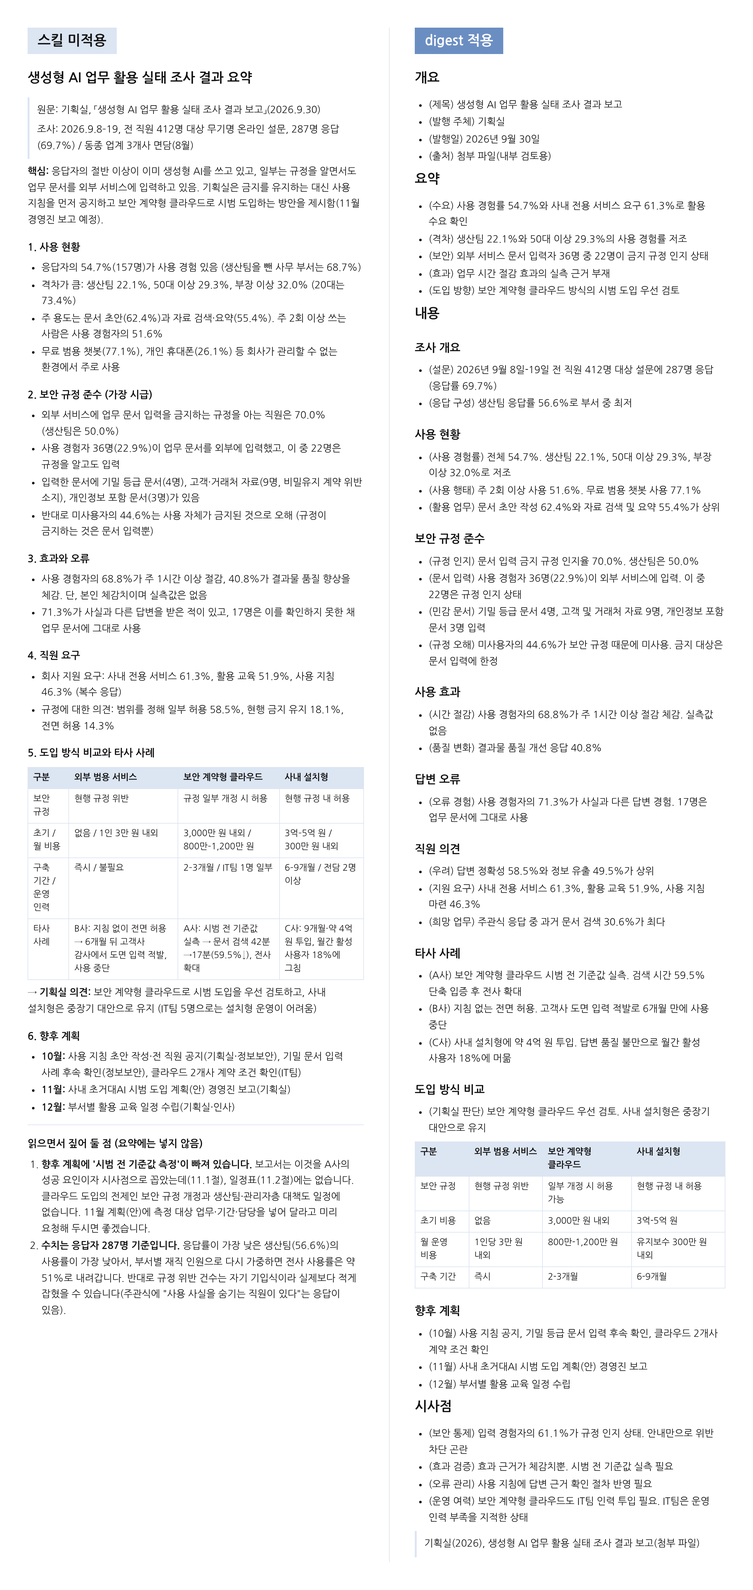
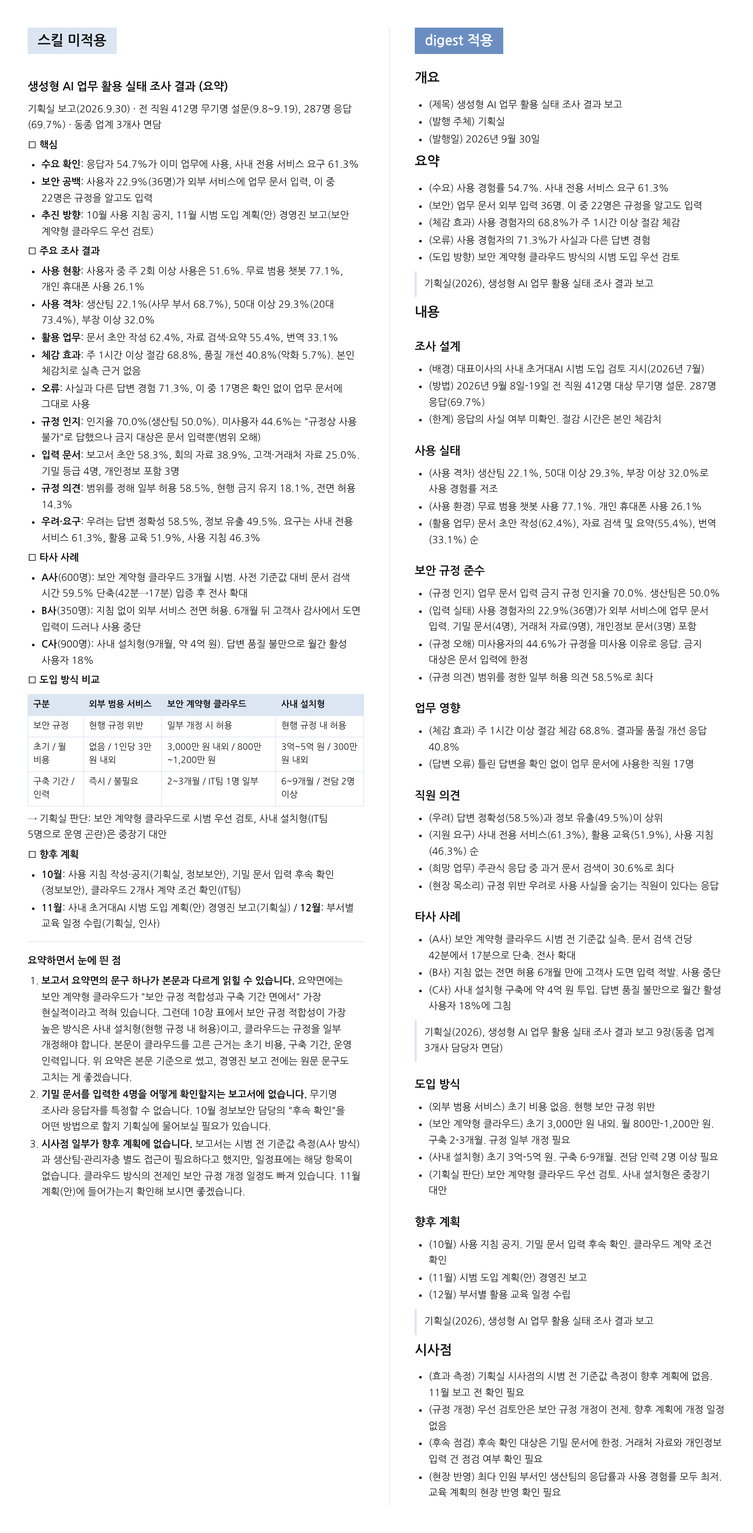
Replace the digest sample pair with a rerun on the published PDF
Both runs were repeated once with the same one-page request, this time
on the published 16-page PDF itself, so the sample's input is now
byte-identical to what the runs read. The new pair replaces the old one
as a whole; baseline and skill outputs are never mixed across runs.

- The new digest briefing's implications point out gaps in the report:
  the baseline measurement and the rule revision are missing from the
  schedule, the follow-up covers only confidential documents, and the
  Production team needs reaching.
- before.md drops a note on how the reply was fitted and checked and an
  offer of more work. Its remark that the report's summary page and its
  comparison table disagree on rule fit stays; the PDF reads that way.
- English files are translations of the Korean runs. The PDFs and
  prompts are unchanged.

Claude-Session: https://claude.ai/code/session_013Pa4KQnbYgEBc9eWftjgtJ

Changed region(s): [[0.0312, 0.0, 0.5, 0.8406], [0.5312, 0.0, 0.9688, 0.9963]]

diff --git a/skills/digest/demo/en/before.md b/skills/digest/demo/en/before.md
@@ -1,50 +1,46 @@
-# Summary: Survey Results on Generative AI Use at Work
+## Survey Results on Generative AI Use at Work (Summary)
 
-> Source: Planning Office, "Survey Results on Generative AI Use at Work" (September 30, 2026)
->
-> Survey: September 8-19, 2026, anonymous online survey of all 412 staff, 287 responses (69.7%) / interviews with 3 companies in the same industry (August)
+Planning Office report (September 30, 2026) · anonymous survey of all 412 staff (September 8-19), 287 responses (69.7%) · interviews with 3 companies in the same industry
 
-**Bottom line:** More than half of respondents already use generative AI, and some enter work documents into external services even though they know the rule. Instead of keeping the ban as is, the Planning Office proposes announcing usage guidelines first and piloting a security-contract cloud service (report to executives due in November).
+**□ Key points**
+- **Demand confirmed**: 54.7% of respondents already use it at work, and 61.3% ask for an in-house service
+- **Security gap**: 22.9% of users (36 people) entered work documents into external services, and 22 of them knew the rule
+- **Direction**: Usage guidelines announced in October, pilot plan (draft) reported to executives in November (security-contract cloud considered first)
 
-### 1. Current use
-- 54.7% of respondents (157 people) have used it (68.7% in office departments, excluding the Production team)
-- Wide gaps: Production team 22.1%, 50 and over 29.3%, general managers and above 32.0% (73.4% for people in their 20s)
-- Mainly used for drafting documents (62.4%) and searching and summarizing material (55.4%). 51.6% of users use it twice a week or more
-- Used mostly in settings the company cannot manage, such as free general-purpose chatbots (77.1%) and personal phones (26.1%)
+**□ Main findings**
+- **Current use**: 51.6% of users use it twice a week or more. Free general-purpose chatbots 77.1%, personal phones 26.1%
+- **Gaps in use**: Production team 22.1% (office departments 68.7%), 50 and over 29.3% (20s 73.4%), general managers and above 32.0%
+- **Tasks**: Drafting documents 62.4%, searching and summarizing material 55.4%, translation 33.1%
+- **Perceived benefits**: 68.8% save 1 hour or more a week, 40.8% see better quality (5.7% worse). Self-estimates with no measured evidence
+- **Errors**: 71.3% have received factually wrong answers, and 17 of them used such answers in work documents without checking
+- **Awareness of the rule**: 70.0% aware (Production team 50.0%). 44.6% of non-users answered "not allowed under the rules," but the ban covers only entering documents (a misreading of the scope)
+- **Documents entered**: Report drafts 58.3%, meeting materials 38.9%, customer and supplier material 25.0%. Confidential documents 4 people, documents with personal information 3 people
+- **Views on the rules**: Allow some use within a defined scope 58.5%, keep the current ban 18.1%, allow full use 14.3%
+- **Concerns and needs**: Top concerns are answer accuracy 58.5% and information leaks 49.5%. Top needs are an in-house service 61.3%, training 51.9% and usage guidelines 46.3%
 
-### 2. Compliance with the security rules (most urgent)
-- 70.0% of staff know the rule against entering work documents into external services (50.0% in the Production team)
-- 36 users (22.9%) have entered work documents into external services, and 22 of them knew the rule
-- The documents entered include confidential documents (4 people), customer and supplier material (9 people, a possible breach of confidentiality agreements) and documents with personal information (3 people)
-- At the other extreme, 44.6% of non-users wrongly believe use itself is banned (the rule bans only entering documents)
+**□ Cases at other companies**
+- **Company A** (600 staff): 3-month pilot on a security-contract cloud. Proved a 59.5% cut in document search time against a prior baseline (42 min → 17 min), then rolled out company-wide
+- **Company B** (350 staff): Allowed full use of external services without guidelines. Stopped use after a customer audit 6 months later found drawings had been entered
+- **Company C** (900 staff): In-house deployment (9 months, about KRW 400 million). Monthly active users at 18% due to dissatisfaction with answer quality
 
-### 3. Benefits and errors
-- 68.8% of users feel they save 1 hour or more a week, and 40.8% feel the quality of their output improved. These are their own estimates, though, with no measured values
-- 71.3% have received factually wrong answers, and 17 people used such answers in work documents without catching them
-
-### 4. What staff want
-- Support requested from the company: an in-house service 61.3%, training 51.9%, usage guidelines 46.3% (multiple answers)
-- Views on the rules: allow some use within a defined scope 58.5%, keep the current ban 18.1%, allow full use 14.3%
-
-### 5. Adoption options and cases at other companies
+**□ Comparison of adoption options**
 
 | Item | External general-purpose service | Security-contract cloud | In-house deployment |
-|---|---|---|---|
-| Security rules | Breaches the current rules | Allowed with a partial rule change | Allowed under the current rules |
+|------------|--------------|----------------|--------------|
+| Security rules | Breaches the current rules | Allowed with a partial change | Allowed under the current rules |
 | Initial / monthly cost | None / about KRW 30,000 per person | About KRW 30 million / KRW 8-12 million | KRW 300-500 million / about KRW 3 million |
-| Setup time / operating staff | Immediate / none needed | 2-3 months / part of 1 IT team member's time | 6-9 months / 2 or more dedicated |
-| Other companies | Company B: full use allowed without guidelines → customer audit found drawings entered 6 months later, use stopped | Company A: baseline measured before the pilot → document search 42 min → 17 min (59.5%↓), company-wide rollout | Company C: 9 months and about KRW 400 million spent, monthly active users only 18% |
+| Setup time / staff | Immediate / none needed | 2-3 months / part of 1 IT team member's time | 6-9 months / 2 or more dedicated |
 
-→ **Planning Office view:** Consider a security-contract cloud first for the pilot, and keep in-house deployment as a medium to long-term option (the 5-person IT team would struggle to run an in-house deployment)
+→ Planning Office view: Consider a security-contract cloud first for the pilot, with in-house deployment (too hard to run with the 5-person IT team) as a medium to long-term option
 
-### 6. Next steps
-- **October:** Draft usage guidelines and announce them to all staff (Planning Office, Information Security), follow up on cases of confidential documents being entered (Information Security), check contract terms of 2 cloud providers (IT team)
-- **November:** Report the in-house hyperscale AI pilot plan (draft) to executives (Planning Office)
-- **December:** Set training schedules by department (Planning Office, HR)
+**□ Next steps**
+- **October**: Write and announce usage guidelines (Planning Office, Information Security), follow up on confidential document input (Information Security), check contract terms of 2 cloud providers (IT team)
+- **November**: Report the in-house hyperscale AI pilot plan (draft) to executives (Planning Office) / **December**: Set training schedules by department (Planning Office, HR)
 
 ---
 
-### Points to note as you read (not included in the summary)
+### Points noticed while summarizing
 
-1. **"Measuring a baseline before the pilot" is missing from the next steps.** The report names it as Company A's success factor and as an implication (section 11.1), but it is not in the schedule (section 11.2). Revising the security rules, which the cloud option depends on, and measures for the Production team and managers are not in the schedule either. It would be worth asking in advance that the November plan (draft) include the tasks to measure, the period and the owner.
-2. **The figures are based on the 287 respondents.** The Production team, with the lowest response rate (56.6%), also has the lowest use rate, so reweighting by department headcount lowers the company-wide use rate to about 51%. On the other hand, the number of rule breaches is self-reported and may be understated (one open-ended answer says "some staff hide their use").
+1. **One phrase on the report's summary page can read differently from the body.** The summary page says the security-contract cloud is the most realistic option "for fit with the security rules and setup time." But in the table in section 10, the option with the best fit with the security rules is in-house deployment (allowed under the current rules), while the cloud option needs a partial rule change. The body's reasons for choosing the cloud are initial cost, setup time and operating staff. The summary above follows the body, and the original wording is worth fixing before the executive report.
+2. **The report does not say how the 4 people who entered confidential documents will be identified.** The survey is anonymous, so respondents cannot be identified. It is worth asking the Planning Office how Information Security will carry out the October "follow-up."
+3. **Some implications are missing from the next steps.** The report says a baseline must be measured before the pilot (as Company A did) and that the Production team and managers need a separate approach, but the schedule has no such items. The schedule for revising the security rules, which the cloud option depends on, is also missing. It would be worth checking that these go into the November plan (draft).

diff --git a/skills/digest/demo/ko/before.md b/skills/digest/demo/ko/before.md
@@ -1,50 +1,46 @@
-# 생성형 AI 업무 활용 실태 조사 결과 요약
+## 생성형 AI 업무 활용 실태 조사 결과 (요약)
 
-> 원문: 기획실, 「생성형 AI 업무 활용 실태 조사 결과 보고」(2026.9.30)
->
-> 조사: 2026.9.8–19, 전 직원 412명 대상 무기명 온라인 설문, 287명 응답(69.7%) / 동종 업계 3개사 면담(8월)
+기획실 보고(2026.9.30) · 전 직원 412명 무기명 설문(9.8~9.19), 287명 응답(69.7%) · 동종 업계 3개사 면담
 
-**핵심:** 응답자의 절반 이상이 이미 생성형 AI를 쓰고 있고, 일부는 규정을 알면서도 업무 문서를 외부 서비스에 입력하고 있음. 기획실은 금지를 유지하는 대신 사용 지침을 먼저 공지하고 보안 계약형 클라우드로 시범 도입하는 방안을 제시함(11월 경영진 보고 예정).
+**□ 핵심**
+- **수요 확인**: 응답자 54.7%가 이미 업무에 사용, 사내 전용 서비스 요구 61.3%
+- **보안 공백**: 사용자 22.9%(36명)가 외부 서비스에 업무 문서 입력, 이 중 22명은 규정을 알고도 입력
+- **추진 방향**: 10월 사용 지침 공지, 11월 시범 도입 계획(안) 경영진 보고(보안 계약형 클라우드 우선 검토)
 
-### 1. 사용 현황
-- 응답자의 54.7%(157명)가 사용 경험 있음 (생산팀을 뺀 사무 부서는 68.7%)
-- 격차가 큼: 생산팀 22.1%, 50대 이상 29.3%, 부장 이상 32.0% (20대는 73.4%)
-- 주 용도는 문서 초안(62.4%)과 자료 검색·요약(55.4%). 주 2회 이상 쓰는 사람은 사용 경험자의 51.6%
-- 무료 범용 챗봇(77.1%), 개인 휴대폰(26.1%) 등 회사가 관리할 수 없는 환경에서 주로 사용
+**□ 주요 조사 결과**
+- **사용 현황**: 사용자 중 주 2회 이상 사용은 51.6%. 무료 범용 챗봇 77.1%, 개인 휴대폰 사용 26.1%
+- **사용 격차**: 생산팀 22.1%(사무 부서 68.7%), 50대 이상 29.3%(20대 73.4%), 부장 이상 32.0%
+- **활용 업무**: 문서 초안 작성 62.4%, 자료 검색·요약 55.4%, 번역 33.1%
+- **체감 효과**: 주 1시간 이상 절감 68.8%, 품질 개선 40.8%(악화 5.7%). 본인 체감치로 실측 근거 없음
+- **오류**: 사실과 다른 답변 경험 71.3%, 이 중 17명은 확인 없이 업무 문서에 그대로 사용
+- **규정 인지**: 인지율 70.0%(생산팀 50.0%). 미사용자 44.6%는 "규정상 사용 불가"로 답했으나 금지 대상은 문서 입력뿐(범위 오해)
+- **입력 문서**: 보고서 초안 58.3%, 회의 자료 38.9%, 고객·거래처 자료 25.0%. 기밀 등급 4명, 개인정보 포함 3명
+- **규정 의견**: 범위를 정해 일부 허용 58.5%, 현행 금지 유지 18.1%, 전면 허용 14.3%
+- **우려·요구**: 우려는 답변 정확성 58.5%, 정보 유출 49.5%. 요구는 사내 전용 서비스 61.3%, 활용 교육 51.9%, 사용 지침 46.3%
 
-### 2. 보안 규정 준수 (가장 시급)
-- 외부 서비스에 업무 문서 입력을 금지하는 규정을 아는 직원은 70.0% (생산팀은 50.0%)
-- 사용 경험자 36명(22.9%)이 업무 문서를 외부에 입력했고, 이 중 22명은 규정을 알고도 입력
-- 입력한 문서에 기밀 등급 문서(4명), 고객·거래처 자료(9명, 비밀유지 계약 위반 소지), 개인정보 포함 문서(3명)가 있음
-- 반대로 미사용자의 44.6%는 사용 자체가 금지된 것으로 오해 (규정이 금지하는 것은 문서 입력뿐)
+**□ 타사 사례**
+- **A사**(600명): 보안 계약형 클라우드 3개월 시범. 사전 기준값 대비 문서 검색 시간 59.5% 단축(42분→17분) 입증 후 전사 확대
+- **B사**(350명): 지침 없이 외부 서비스 전면 허용. 6개월 뒤 고객사 감사에서 도면 입력이 드러나 사용 중단
+- **C사**(900명): 사내 설치형(9개월, 약 4억 원). 답변 품질 불만으로 월간 활성 사용자 18%
 
-### 3. 효과와 오류
-- 사용 경험자의 68.8%가 주 1시간 이상 절감, 40.8%가 결과물 품질 향상을 체감. 단, 본인 체감치이며 실측값은 없음
-- 71.3%가 사실과 다른 답변을 받은 적이 있고, 17명은 이를 확인하지 못한 채 업무 문서에 그대로 사용
-
-### 4. 직원 요구
-- 회사 지원 요구: 사내 전용 서비스 61.3%, 활용 교육 51.9%, 사용 지침 46.3% (복수 응답)
-- 규정에 대한 의견: 범위를 정해 일부 허용 58.5%, 현행 금지 유지 18.1%, 전면 허용 14.3%
-
-### 5. 도입 방식 비교와 타사 사례
+**□ 도입 방식 비교**
 
 | 구분 | 외부 범용 서비스 | 보안 계약형 클라우드 | 사내 설치형 |
-|---|---|---|---|
-| 보안 규정 | 현행 규정 위반 | 규정 일부 개정 시 허용 | 현행 규정 내 허용 |
-| 초기 / 월 비용 | 없음 / 1인 3만 원 내외 | 3,000만 원 내외 / 800만–1,200만 원 | 3억–5억 원 / 300만 원 내외 |
-| 구축 기간 / 운영 인력 | 즉시 / 불필요 | 2–3개월 / IT팀 1명 일부 | 6–9개월 / 전담 2명 이상 |
-| 타사 사례 | B사: 지침 없이 전면 허용 → 6개월 뒤 고객사 감사에서 도면 입력 적발, 사용 중단 | A사: 시범 전 기준값 실측 → 문서 검색 42분→17분(59.5%↓), 전사 확대 | C사: 9개월·약 4억 원 투입, 월간 활성 사용자 18%에 그침 |
+|------------|--------------|----------------|--------------|
+| 보안 규정 | 현행 규정 위반 | 일부 개정 시 허용 | 현행 규정 내 허용 |
+| 초기 / 월 비용 | 없음 / 1인당 3만 원 내외 | 3,000만 원 내외 / 800만~1,200만 원 | 3억~5억 원 / 300만 원 내외 |
+| 구축 기간 / 인력 | 즉시 / 불필요 | 2~3개월 / IT팀 1명 일부 | 6~9개월 / 전담 2명 이상 |
 
-→ **기획실 의견:** 보안 계약형 클라우드로 시범 도입을 우선 검토하고, 사내 설치형은 중장기 대안으로 유지 (IT팀 5명으로는 설치형 운영이 어려움)
+→ 기획실 판단: 보안 계약형 클라우드로 시범 우선 검토, 사내 설치형(IT팀 5명으로 운영 곤란)은 중장기 대안
 
-### 6. 향후 계획
-- **10월:** 사용 지침 초안 작성·전 직원 공지(기획실·정보보안), 기밀 문서 입력 사례 후속 확인(정보보안), 클라우드 2개사 계약 조건 확인(IT팀)
-- **11월:** 사내 초거대AI 시범 도입 계획(안) 경영진 보고(기획실)
-- **12월:** 부서별 활용 교육 일정 수립(기획실·인사)
+**□ 향후 계획**
+- **10월**: 사용 지침 작성·공지(기획실, 정보보안), 기밀 문서 입력 후속 확인(정보보안), 클라우드 2개사 계약 조건 확인(IT팀)
+- **11월**: 사내 초거대AI 시범 도입 계획(안) 경영진 보고(기획실) / **12월**: 부서별 교육 일정 수립(기획실, 인사)
 
 ---
 
-### 읽으면서 짚어 둘 점 (요약에는 넣지 않음)
+### 요약하면서 눈에 띈 점
 
-1. **향후 계획에 '시범 전 기준값 측정'이 빠져 있습니다.** 보고서는 이것을 A사의 성공 요인이자 시사점으로 꼽았는데(11.1절), 일정표(11.2절)에는 없습니다. 클라우드 도입의 전제인 보안 규정 개정과 생산팀·관리자층 대책도 일정에 없습니다. 11월 계획(안)에 측정 대상 업무·기간·담당을 넣어 달라고 미리 요청해 두시면 좋겠습니다.
-2. **수치는 응답자 287명 기준입니다.** 응답률이 가장 낮은 생산팀(56.6%)의 사용률이 가장 낮아서, 부서별 재직 인원으로 다시 가중하면 전사 사용률은 약 51%로 내려갑니다. 반대로 규정 위반 건수는 자기 기입식이라 실제보다 적게 잡혔을 수 있습니다(주관식에 "사용 사실을 숨기는 직원이 있다"는 응답이 있음).
+1. **보고서 요약면의 문구 하나가 본문과 다르게 읽힐 수 있습니다.** 요약면에는 보안 계약형 클라우드가 "보안 규정 적합성과 구축 기간 면에서" 가장 현실적이라고 적혀 있습니다. 그런데 10장 표에서 보안 규정 적합성이 가장 높은 방식은 사내 설치형(현행 규정 내 허용)이고, 클라우드는 규정을 일부 개정해야 합니다. 본문이 클라우드를 고른 근거는 초기 비용, 구축 기간, 운영 인력입니다. 위 요약은 본문 기준으로 썼고, 경영진 보고 전에는 원문 문구도 고치는 게 좋겠습니다.
+2. **기밀 문서를 입력한 4명을 어떻게 확인할지는 보고서에 없습니다.** 무기명 조사라 응답자를 특정할 수 없습니다. 10월 정보보안 담당의 "후속 확인"을 어떤 방법으로 할지 기획실에 물어보실 필요가 있습니다.
+3. **시사점 일부가 향후 계획에 없습니다.** 보고서는 시범 전 기준값 측정(A사 방식)과 생산팀·관리자층 별도 접근이 필요하다고 했지만, 일정표에는 해당 항목이 없습니다. 클라우드 방식의 전제인 보안 규정 개정 일정도 빠져 있습니다. 11월 계획(안)에 들어가는지 확인해 보시면 좋겠습니다.

diff --git a/skills/digest/demo/en/after.md b/skills/digest/demo/en/after.md
@@ -2,67 +2,65 @@
 - (Title) Survey Results on Generative AI Use at Work
 - (Issued by) Planning Office
 - (Issue date) September 30, 2026
-- (Source) Attached file (for internal review)
 
 # Summary
-- (Demand) Demand for use confirmed by a use rate of 54.7% and 61.3% asking for an in-house service
-- (Gaps) Low use rates in the Production team at 22.1% and among those 50 and over at 29.3%
-- (Security) 22 of the 36 people who entered documents into external services knew the ban
-- (Benefits) No measured evidence for the time saved at work
+- (Demand) Use rate of 54.7%. 61.3% ask for an in-house service
+- (Security) 36 people entered work documents into external services. 22 of them knew the rule
+- (Perceived benefits) 68.8% of users feel they save 1 hour or more a week
+- (Errors) 71.3% of users have received factually wrong answers
 - (Adoption direction) A pilot on a security-contract cloud to be considered first
 
+> Planning Office (2026), Survey Results on Generative AI Use at Work
+
 # Content
-## Survey overview
-- (Survey) 287 of all 412 staff responded to the survey held September 8-19, 2026 (response rate 69.7%)
-- (Response mix) The Production team's response rate of 56.6% is the lowest of all departments
+## Survey design
+- (Background) CEO's instruction to review an in-house hyperscale AI pilot (July 2026)
+- (Method) Anonymous survey of all 412 staff, September 8-19, 2026. 287 responses (69.7%)
+- (Limits) Answers not verified. Time saved is a self-estimate
 
 ## Current use
-- (Use rate) 54.7% overall. Low in the Production team at 22.1%, among those 50 and over at 29.3% and among general managers and above at 32.0%
-- (Patterns of use) 51.6% use it twice a week or more. 77.1% use free general-purpose chatbots
-- (Tasks) Drafting documents at 62.4% and searching and summarizing material at 55.4% lead
+- (Gaps in use) Low use rates in the Production team at 22.1%, among those 50 and over at 29.3% and among general managers and above at 32.0%
+- (Settings of use) 77.1% use free general-purpose chatbots. 26.1% use personal phones
+- (Tasks) Drafting documents (62.4%), searching and summarizing material (55.4%) and translation (33.1%), in that order
 
 ## Compliance with the security rules
-- (Awareness of the rule) 70.0% know the ban on entering documents. 50.0% in the Production team
-- (Document input) 36 users (22.9%) entered documents into external services. 22 of them knew the rule
-- (Sensitive documents) Confidential documents entered by 4 people, customer and supplier material by 9 and documents with personal information by 3
-- (Misreading the rule) 44.6% of non-users do not use it because of the security rules. The ban covers only entering documents
+- (Awareness of the rule) 70.0% know the ban on entering work documents. 50.0% in the Production team
+- (Document input) 22.9% of users (36 people) entered work documents into external services. Including confidential documents (4 people), supplier material (9 people) and documents with personal information (3 people)
+- (Misreading the rule) 44.6% of non-users gave the rules as their reason for not using it. The ban covers only entering documents
+- (Views on the rules) Allowing some use within a defined scope is the most common view at 58.5%
 
-## Benefits of use
-- (Time saved) 68.8% of users feel they save 1 hour or more a week. No measured values
-- (Change in quality) 40.8% said output quality improved
-
-## Wrong answers
-- (Errors) 71.3% of users have received factually wrong answers. 17 used them in work documents as they were
+## Effects on work
+- (Perceived benefits) 68.8% feel they save 1 hour or more a week. 40.8% said output quality improved
+- (Wrong answers) 17 staff used wrong answers in work documents without checking
 
 ## Staff views
-- (Concerns) Answer accuracy at 58.5% and information leaks at 49.5% lead
-- (Support requested) An in-house service 61.3%, training 51.9%, usage guidelines 46.3%
+- (Concerns) Answer accuracy (58.5%) and information leaks (49.5%) lead
+- (Support requested) An in-house service (61.3%), training (51.9%) and usage guidelines (46.3%), in that order
 - (Tasks wanted) Searching past documents is the most common open-ended answer at 30.6%
+- (Voices from staff) One answer says some staff hide their use for fear of breaking the rules
 
 ## Cases at other companies
-- (Company A) Measured a baseline before its security-contract cloud pilot. Proved a 59.5% cut in search time, then rolled out company-wide
-- (Company B) Allowed full use without guidelines. Stopped use after 6 months when customer drawings were found to have been entered
-- (Company C) Spent about KRW 400 million on an in-house deployment. Monthly active users stayed at 18% due to dissatisfaction with answer quality
+- (Company A) Measured a baseline before its security-contract cloud pilot. Cut time per document search from 42 to 17 minutes. Rolled out company-wide
+- (Company B) Found customer drawings had been entered 6 months after allowing full use without guidelines. Stopped use
+- (Company C) Spent about KRW 400 million on an in-house deployment. Monthly active users only 18% due to dissatisfaction with answer quality
 
-## Comparison of adoption options
+> Planning Office (2026), Survey Results on Generative AI Use at Work, section 9 (interviews with staff at 3 companies in the same industry)
+
+## Adoption options
+- (External general-purpose service) No initial cost. Breaches the current security rules
+- (Security-contract cloud) About KRW 30 million up front. KRW 8-12 million a month. 2-3 months to set up. Needs a partial rule change
+- (In-house deployment) KRW 300-500 million up front. 6-9 months to set up. Needs 2 or more dedicated staff
 - (Planning Office view) Consider a security-contract cloud first. Keep in-house deployment as a medium to long-term option
 
-| Item | External general-purpose service | Security-contract cloud | In-house deployment |
-|---|---|---|---|
-| Security rules | Breaches the current rules | Can be allowed with a partial rule change | Allowed under the current rules |
-| Initial cost | None | About KRW 30 million | KRW 300-500 million |
-| Monthly operating cost | About KRW 30,000 per person | KRW 8-12 million | About KRW 3 million for maintenance |
-| Setup time | Immediate | 2-3 months | 6-9 months |
-
 ## Next steps
-- (October) Announce usage guidelines, follow up on confidential document input, check contract terms of 2 cloud providers
-- (November) Report the in-house hyperscale AI pilot plan (draft) to executives
+- (October) Announce usage guidelines. Follow up on confidential document input. Check cloud contract terms
+- (November) Report the pilot plan (draft) to executives
 - (December) Set training schedules by department
 
-# Implications
-- (Security controls) 61.1% of those who entered documents knew the rule. Guidance alone is unlikely to stop breaches
-- (Proving benefits) The only evidence of benefits is perception. A baseline needs to be measured before the pilot
-- (Managing errors) Usage guidelines need a step for checking the basis of answers
-- (Operating capacity) A security-contract cloud also needs IT team time. The IT team has already pointed to a shortage of operating staff
+> Planning Office (2026), Survey Results on Generative AI Use at Work
 
-> Planning Office (2026), Survey Results on Generative AI Use at Work (attached file)
+# Implications
+- (Measuring impact) The baseline measurement before the pilot, named in the Planning Office implications, is missing from the next steps. Needs checking before the November report
+- (Rule revision) The preferred option depends on revising the security rules. The next steps have no schedule for the revision
+- (Follow-up scope) The follow-up covers only confidential documents. Whether supplier material and personal information inputs will be checked needs confirming
+- (Reaching the shop floor) The Production team, the largest department, has the lowest response rate and the lowest use rate. Whether the training plan reflects the shop floor needs checking

diff --git a/skills/digest/demo/ko/after.md b/skills/digest/demo/ko/after.md
@@ -2,67 +2,65 @@
 - (제목) 생성형 AI 업무 활용 실태 조사 결과 보고
 - (발행 주체) 기획실
 - (발행일) 2026년 9월 30일
-- (출처) 첨부 파일(내부 검토용)
 
 # 요약
-- (수요) 사용 경험률 54.7%와 사내 전용 서비스 요구 61.3%로 활용 수요 확인
-- (격차) 생산팀 22.1%와 50대 이상 29.3%의 사용 경험률 저조
-- (보안) 외부 서비스 문서 입력자 36명 중 22명이 금지 규정 인지 상태
-- (효과) 업무 시간 절감 효과의 실측 근거 부재
+- (수요) 사용 경험률 54.7%. 사내 전용 서비스 요구 61.3%
+- (보안) 업무 문서 외부 입력 36명. 이 중 22명은 규정을 알고도 입력
+- (체감 효과) 사용 경험자의 68.8%가 주 1시간 이상 절감 체감
+- (오류) 사용 경험자의 71.3%가 사실과 다른 답변 경험
 - (도입 방향) 보안 계약형 클라우드 방식의 시범 도입 우선 검토
 
-# 내용
-## 조사 개요
-- (설문) 2026년 9월 8일-19일 전 직원 412명 대상 설문에 287명 응답(응답률 69.7%)
-- (응답 구성) 생산팀 응답률 56.6%로 부서 중 최저
+> 기획실(2026), 생성형 AI 업무 활용 실태 조사 결과 보고
 
-## 사용 현황
-- (사용 경험률) 전체 54.7%. 생산팀 22.1%, 50대 이상 29.3%, 부장 이상 32.0%로 저조
-- (사용 행태) 주 2회 이상 사용 51.6%. 무료 범용 챗봇 사용 77.1%
-- (활용 업무) 문서 초안 작성 62.4%와 자료 검색 및 요약 55.4%가 상위
+# 내용
+## 조사 설계
+- (배경) 대표이사의 사내 초거대AI 시범 도입 검토 지시(2026년 7월)
+- (방법) 2026년 9월 8일-19일 전 직원 412명 대상 무기명 설문. 287명 응답(69.7%)
+- (한계) 응답의 사실 여부 미확인. 절감 시간은 본인 체감치
+
+## 사용 실태
+- (사용 격차) 생산팀 22.1%, 50대 이상 29.3%, 부장 이상 32.0%로 사용 경험률 저조
+- (사용 환경) 무료 범용 챗봇 사용 77.1%. 개인 휴대폰 사용 26.1%
+- (활용 업무) 문서 초안 작성(62.4%), 자료 검색 및 요약(55.4%), 번역(33.1%) 순
 
 ## 보안 규정 준수
-- (규정 인지) 문서 입력 금지 규정 인지율 70.0%. 생산팀은 50.0%
-- (문서 입력) 사용 경험자 36명(22.9%)이 외부 서비스에 입력. 이 중 22명은 규정 인지 상태
-- (민감 문서) 기밀 등급 문서 4명, 고객 및 거래처 자료 9명, 개인정보 포함 문서 3명 입력
-- (규정 오해) 미사용자의 44.6%가 보안 규정 때문에 미사용. 금지 대상은 문서 입력에 한정
+- (규정 인지) 업무 문서 입력 금지 규정 인지율 70.0%. 생산팀은 50.0%
+- (입력 실태) 사용 경험자의 22.9%(36명)가 외부 서비스에 업무 문서 입력. 기밀 문서(4명), 거래처 자료(9명), 개인정보 문서(3명) 포함
+- (규정 오해) 미사용자의 44.6%가 규정을 미사용 이유로 응답. 금지 대상은 문서 입력에 한정
+- (규정 의견) 범위를 정한 일부 허용 의견 58.5%로 최다
 
-## 사용 효과
-- (시간 절감) 사용 경험자의 68.8%가 주 1시간 이상 절감 체감. 실측값 없음
-- (품질 변화) 결과물 품질 개선 응답 40.8%
-
-## 답변 오류
-- (오류 경험) 사용 경험자의 71.3%가 사실과 다른 답변 경험. 17명은 업무 문서에 그대로 사용
+## 업무 영향
+- (체감 효과) 주 1시간 이상 절감 체감 68.8%. 결과물 품질 개선 응답 40.8%
+- (답변 오류) 틀린 답변을 확인 없이 업무 문서에 사용한 직원 17명
 
 ## 직원 의견
-- (우려) 답변 정확성 58.5%와 정보 유출 49.5%가 상위
-- (지원 요구) 사내 전용 서비스 61.3%, 활용 교육 51.9%, 사용 지침 마련 46.3%
-- (희망 업무) 주관식 응답 중 과거 문서 검색 30.6%가 최다
+- (우려) 답변 정확성(58.5%)과 정보 유출(49.5%)이 상위
+- (지원 요구) 사내 전용 서비스(61.3%), 활용 교육(51.9%), 사용 지침(46.3%) 순
+- (희망 업무) 주관식 응답 중 과거 문서 검색이 30.6%로 최다
+- (현장 목소리) 규정 위반 우려로 사용 사실을 숨기는 직원이 있다는 응답
 
 ## 타사 사례
-- (A사) 보안 계약형 클라우드 시범 전 기준값 실측. 검색 시간 59.5% 단축 입증 후 전사 확대
-- (B사) 지침 없는 전면 허용. 고객사 도면 입력 적발로 6개월 만에 사용 중단
-- (C사) 사내 설치형에 약 4억 원 투입. 답변 품질 불만으로 월간 활성 사용자 18%에 머묾
+- (A사) 보안 계약형 클라우드 시범 전 기준값 실측. 문서 검색 건당 42분에서 17분으로 단축. 전사 확대
+- (B사) 지침 없는 전면 허용 6개월 만에 고객사 도면 입력 적발. 사용 중단
+- (C사) 사내 설치형 구축에 약 4억 원 투입. 답변 품질 불만으로 월간 활성 사용자 18%에 그침
 
-## 도입 방식 비교
-- (기획실 판단) 보안 계약형 클라우드 우선 검토. 사내 설치형은 중장기 대안으로 유지
+> 기획실(2026), 생성형 AI 업무 활용 실태 조사 결과 보고 9장(동종 업계 3개사 담당자 면담)
 
-| 구분 | 외부 범용 서비스 | 보안 계약형 클라우드 | 사내 설치형 |
-|---|---|---|---|
-| 보안 규정 | 현행 규정 위반 | 일부 개정 시 허용 가능 | 현행 규정 내 허용 |
-| 초기 비용 | 없음 | 3,000만 원 내외 | 3억-5억 원 |
-| 월 운영 비용 | 1인당 3만 원 내외 | 800만-1,200만 원 | 유지보수 300만 원 내외 |
-| 구축 기간 | 즉시 | 2-3개월 | 6-9개월 |
+## 도입 방식
+- (외부 범용 서비스) 초기 비용 없음. 현행 보안 규정 위반
+- (보안 계약형 클라우드) 초기 3,000만 원 내외. 월 800만-1,200만 원. 구축 2-3개월. 규정 일부 개정 필요
+- (사내 설치형) 초기 3억-5억 원. 구축 6-9개월. 전담 인력 2명 이상 필요
+- (기획실 판단) 보안 계약형 클라우드 우선 검토. 사내 설치형은 중장기 대안
 
 ## 향후 계획
-- (10월) 사용 지침 공지, 기밀 등급 문서 입력 후속 확인, 클라우드 2개사 계약 조건 확인
-- (11월) 사내 초거대AI 시범 도입 계획(안) 경영진 보고
+- (10월) 사용 지침 공지. 기밀 문서 입력 후속 확인. 클라우드 계약 조건 확인
+- (11월) 시범 도입 계획(안) 경영진 보고
 - (12월) 부서별 활용 교육 일정 수립
 
-# 시사점
-- (보안 통제) 입력 경험자의 61.1%가 규정 인지 상태. 안내만으로 위반 차단 곤란
-- (효과 검증) 효과 근거가 체감치뿐. 시범 전 기준값 실측 필요
-- (오류 관리) 사용 지침에 답변 근거 확인 절차 반영 필요
-- (운영 여력) 보안 계약형 클라우드도 IT팀 인력 투입 필요. IT팀은 운영 인력 부족을 지적한 상태
+> 기획실(2026), 생성형 AI 업무 활용 실태 조사 결과 보고
 
-> 기획실(2026), 생성형 AI 업무 활용 실태 조사 결과 보고(첨부 파일)
+# 시사점
+- (효과 측정) 기획실 시사점의 시범 전 기준값 측정이 향후 계획에 없음. 11월 보고 전 확인 필요
+- (규정 개정) 우선 검토안은 보안 규정 개정이 전제. 향후 계획에 개정 일정 없음
+- (후속 점검) 후속 확인 대상은 기밀 문서에 한정. 거래처 자료와 개인정보 입력 건 점검 여부 확인 필요
+- (현장 반영) 최다 인원 부서인 생산팀의 응답률과 사용 경험률 모두 최저. 교육 계획의 현장 반영 확인 필요
